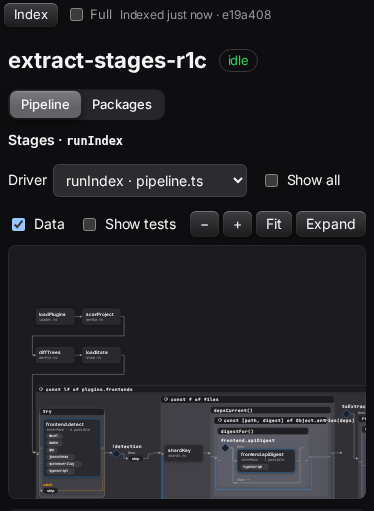
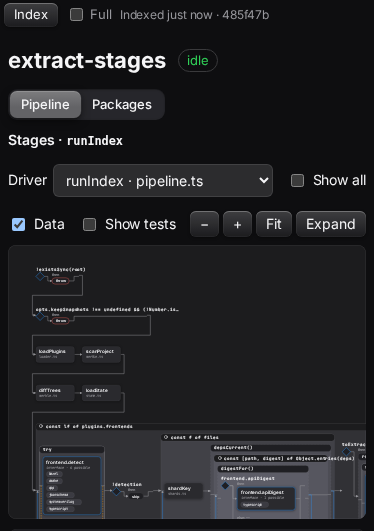
extract: label kept callback slots, pluralise coverage note, bind names once
- A kept callback slot (its result is bound) is a stage with slot: true, subtitled "callback slot" instead of "N possible".
- Kept slots are not counted in the ambiguous-call coverage note.
- The note pluralises: "1 call with several possible targets shown once".
- coupling.ts computes bindNames once per item.
- Refresh PR #84 screenshots (dark, data, hover, light, phone, showall, cardclick, cpp).

Claude-Session: https://claude.ai/code/session_011RUAPNoHpwjRgHwLgz3UJS

diff --git a/packages/core/model/src/stages.ts b/packages/core/model/src/stages.ts
@@ -51,6 +51,7 @@ export type StageNode =
       fanout?: { how: "interface" | "registry"; targets: { fn: NodeId; name: string; component?: string }[]; truncated?: boolean };
       ambiguous?: boolean; // candidates without how interface|registry: ONE stage, no fan-out
       candidates?: number; // with ambiguous: how many distinct targets the call could be
+      slot?: boolean; // a kept callback slot (its result is bound): one ambiguous stage that is a callback, not a candidate call
       body?: StageNode[]; // inlined local helper (named fn nested in the driver), depth <= 3, cycle-guarded
       repeatOf?: string; // the helper was inlined by an earlier call (this one: id of that call): no body, "same as above"
       binds?: string[];
@@ -484,7 +485,7 @@ function resolveCall(group: Rel[], env: Env): StageNode | undefined {
         // A slot whose result is bound (`const ast = this.s.parse(t)`) produces data a later statement may read: it stays one
         // ambiguous stage so that data edge survives. A slot with no bound result (fire-and-forget) is dropped.
         if (binds === undefined) return undefined;
-        return { kind: "call", id, name: callee ?? "call", site, ambiguous: true, candidates: targets.length, ...dataAttrs };
+        return { kind: "call", id, name: callee ?? "call", site, ambiguous: true, slot: true, ...dataAttrs };
       }
       const shown = targets.slice(0, FANOUT_CAP).map((t): { fn: NodeId; name: string; component?: string } => {
         const f = ctx.model.functionById.get(t) as FunctionEntity;
@@ -659,7 +660,8 @@ function scoreBody(model: ProjectModel, body: StageNode[]): number | undefined {
 function countAmbiguous(nodes: StageNode[]): number {
   let n = 0;
   for (const node of nodes) {
-    if (node.kind === "call") n += (node.ambiguous === true ? 1 : 0) + (node.body ? countAmbiguous(node.body) : 0);
+    // A kept callback slot is a callback the caller passes in, not a call with several possible targets: it is not counted.
+    if (node.kind === "call") n += (node.ambiguous === true && node.slot !== true ? 1 : 0) + (node.body ? countAmbiguous(node.body) : 0);
     else if (node.kind === "loop") n += countAmbiguous(node.body);
     else if (node.kind === "branch") for (const a of node.arms) n += countAmbiguous(a.body);
     else if (node.kind === "try") n += countAmbiguous(node.body) + countAmbiguous(node.handler);
@@ -975,7 +977,7 @@ function coverageOf(ctx: Ctx, body: StageNode[], driverId: NodeId): string[] {
   const hasExit = flows.some((n) => n.kind === "flow.jump" || n.kind === "flow.return");
   if (hasLoop && !hasExit) notes.push("Early exits not shown");
   const ambiguous = countAmbiguous(body);
-  if (ambiguous > 0) notes.push(`${ambiguous} calls with several possible targets shown once`);
+  if (ambiguous > 0) notes.push(`${ambiguous} ${ambiguous === 1 ? "call" : "calls"} with several possible targets shown once`);
   return notes;
 }
 

diff --git a/packages/core/model/test/stages.test.ts b/packages/core/model/test/stages.test.ts
@@ -172,7 +172,7 @@ describe("stage graph: interface fan-out and ambiguous calls", () => {
     const detect = g.body[0];
     expect(detect?.kind === "call" && detect.fanout?.how).toBe("interface");
     expect(detect?.kind === "call" && detect.fanout?.targets.map((t) => t.component)).toEqual(["b", "b", "c", "c", "c"]);
-    expect(g.coverage).toContain("1 calls with several possible targets shown once");
+    expect(g.coverage).toContain("1 call with several possible targets shown once");
     // The ambiguous call carries how many distinct targets it could be.
     const amb = g.body[2];
     expect(amb?.kind === "call" && amb.candidates).toBe(2);
@@ -233,6 +233,12 @@ describe("stage graph: exits", () => {
 });
 
 describe("stage graph: coverage notes", () => {
+  it("pluralises the ambiguous-call note: one call is singular, several are plural", () => {
+    const edges = [call(DRV, [stageId("s5"), stageId("s6")], 6, 2, 6, { callee: "amb" }), call(DRV, [stageId("s5"), stageId("s6")], 8, 2, 6, { callee: "amb2" })];
+    const g = graphOf(doc({ edges }));
+    expect(g.coverage).toContain("2 calls with several possible targets shown once");
+  });
+
   it("notes approximate call order, missing early exits, and ambiguous calls", () => {
     const nodes = [flow("loop:3:2", "flow.loop", [3, 2, 5, 3], { variant: "for-of", condition: "xs" })];
     const edges = [call(DRV, stageId("s1"), 4, 4, 6, { callEnd: undefined }), call(DRV, [stageId("s5"), stageId("s6")], 6, 2, 6, { callee: "amb" })];
@@ -240,7 +246,7 @@ describe("stage graph: coverage notes", () => {
     expect(g.coverage).toEqual([
       "Nested call order approximate",
       "Early exits not shown",
-      "1 calls with several possible targets shown once",
+      "1 call with several possible targets shown once",
       "No data-flow facts for this language",
     ]);
   });
@@ -823,7 +829,14 @@ describe("stage graph: named property arrows and callback marks (review r3)", ()
     const parse = stageNamed(g.body, "parser.parse");
     expect(parse).toBeDefined();
     expect(parse?.ambiguous).toBe(true);
+    expect(parse?.slot).toBe(true);
+    expect(parse?.candidates).toBeUndefined();
     expect(g.edges).toEqual([{ from: parse?.id, to: idOf(g, "s4"), label: "ast" }]);
+  });
+
+  it("does not count a kept callback slot as an ambiguous call in the coverage note", () => {
+    const g = graphOf(docWithDriver({ params: [] }, { nodes: [parseNode({ anonymous: true, callbackSlot: true })], edges: [parseCall(), saveCall()] }));
+    expect(g.coverage.some((c) => c.includes("several possible targets"))).toBe(false);
   });
 
   it("drops an unbound callback slot (a fire-and-forget call such as opts.onProgress)", () => {

diff --git a/packages/core/flow/src/coupling.ts b/packages/core/flow/src/coupling.ts
@@ -292,7 +292,8 @@ function keepItem(item: Item, caught: boolean, ctx: Ctx, st: { next: number }): 
       const baseLabel = hoisted !== undefined ? `${item.label} ⇢ ${hoisted}` : item.label;
       const baseTitle = hoisted !== undefined ? `${item.title ?? item.label} ⇢ ${hoisted}` : item.title;
       // A kept call whose result goes into a local shows where it goes: `cfg ← config.loadConfig()`.
-      const bind = item.role === "call" || item.role === "await" ? (item.binds === undefined ? undefined : bindNames(item).map(displayLocals(bindNames(item))).join(", ")) : undefined;
+      const names = (item.role === "call" || item.role === "await") && item.binds !== undefined ? bindNames(item) : undefined;
+      const bind = names?.map(displayLocals(names)).join(", ");
       const boundLabel = bind !== undefined ? `${bind} ← ${baseLabel}` : baseLabel;
       const boundTitle = bind !== undefined ? `${bind} ← ${baseTitle ?? baseLabel}` : baseTitle;
       return {

diff --git a/apps/web/test/stagesLayout.test.ts b/apps/web/test/stagesLayout.test.ts
@@ -541,3 +541,18 @@ describe("stages layout: a link between non-card stages (review r3)", () => {
     expect(diamond?.members).toContain(link?.to);
   });
 });
+
+describe("stages layout: callback slots", () => {
+  it("labels a kept callback slot 'callback slot', never a count of possible targets; an ordinary ambiguous call keeps its count", () => {
+    const g: StageGraph = {
+      driver: { id: "app/src/run.ts#run", name: "run", file: "app/src/run.ts" },
+      body: [call("sl1", "parse", { ambiguous: true, slot: true }), call("am1", "pick", { ambiguous: true, candidates: 2 })],
+      edges: [],
+      coverage: [],
+    };
+    const subs = cards(layoutStages(g).nodes).map((c) => c.sub);
+    expect(subs).toContain("callback slot");
+    expect(subs).toContain("2 possible");
+    expect(subs.some((s) => s?.includes("1 possible") || s?.includes("several possible"))).toBe(false);
+  });
+});

diff --git a/apps/web/src/arch/stages-layout.ts b/apps/web/src/arch/stages-layout.ts
@@ -404,6 +404,7 @@ function callSized(n: Extract<StageNode, { kind: "call" }>, o: Ctx): Sized | und
       more: all.length - chips.length,
     });
   }
+  if (n.slot === true) return cardSized({ title: n.name, sub: "callback slot", tone: "ambiguous", site: n.site });
   if (n.ambiguous === true) {
     const sub = n.candidates !== undefined ? `${n.candidates} possible` : "several possible";
     return cardSized({ title: n.name, sub, tone: "ambiguous", site: n.site });
